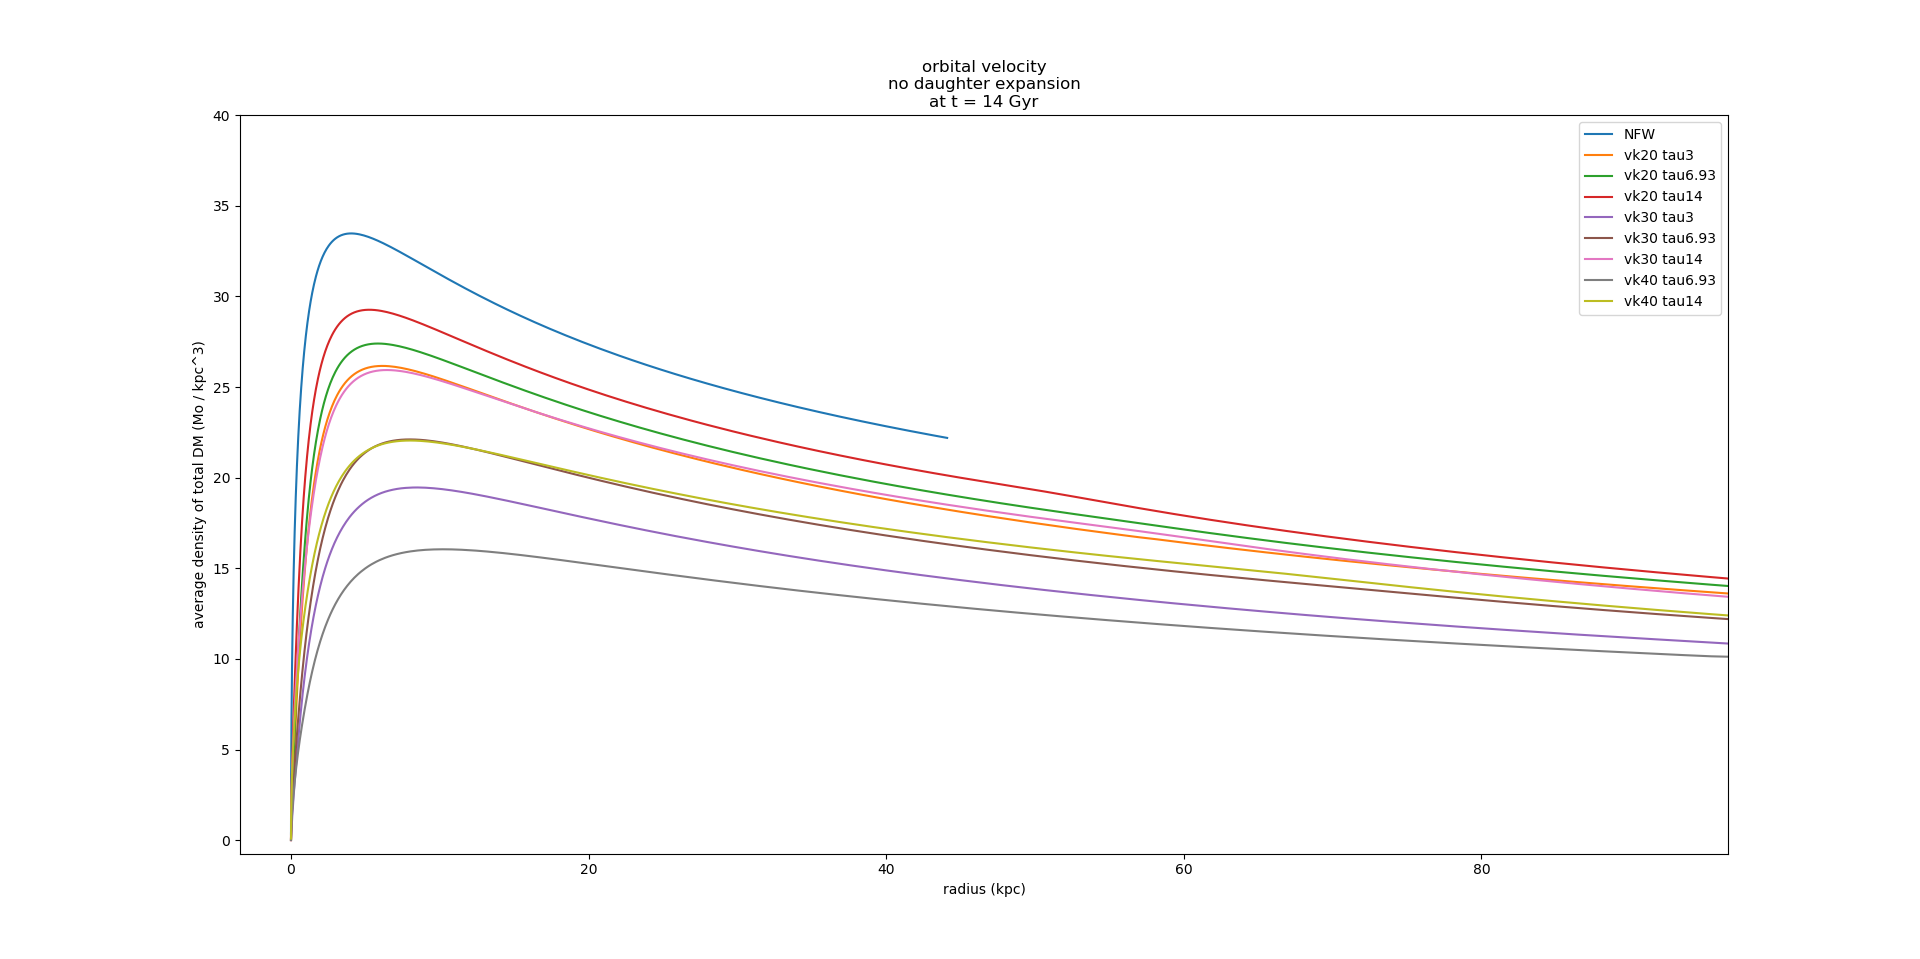
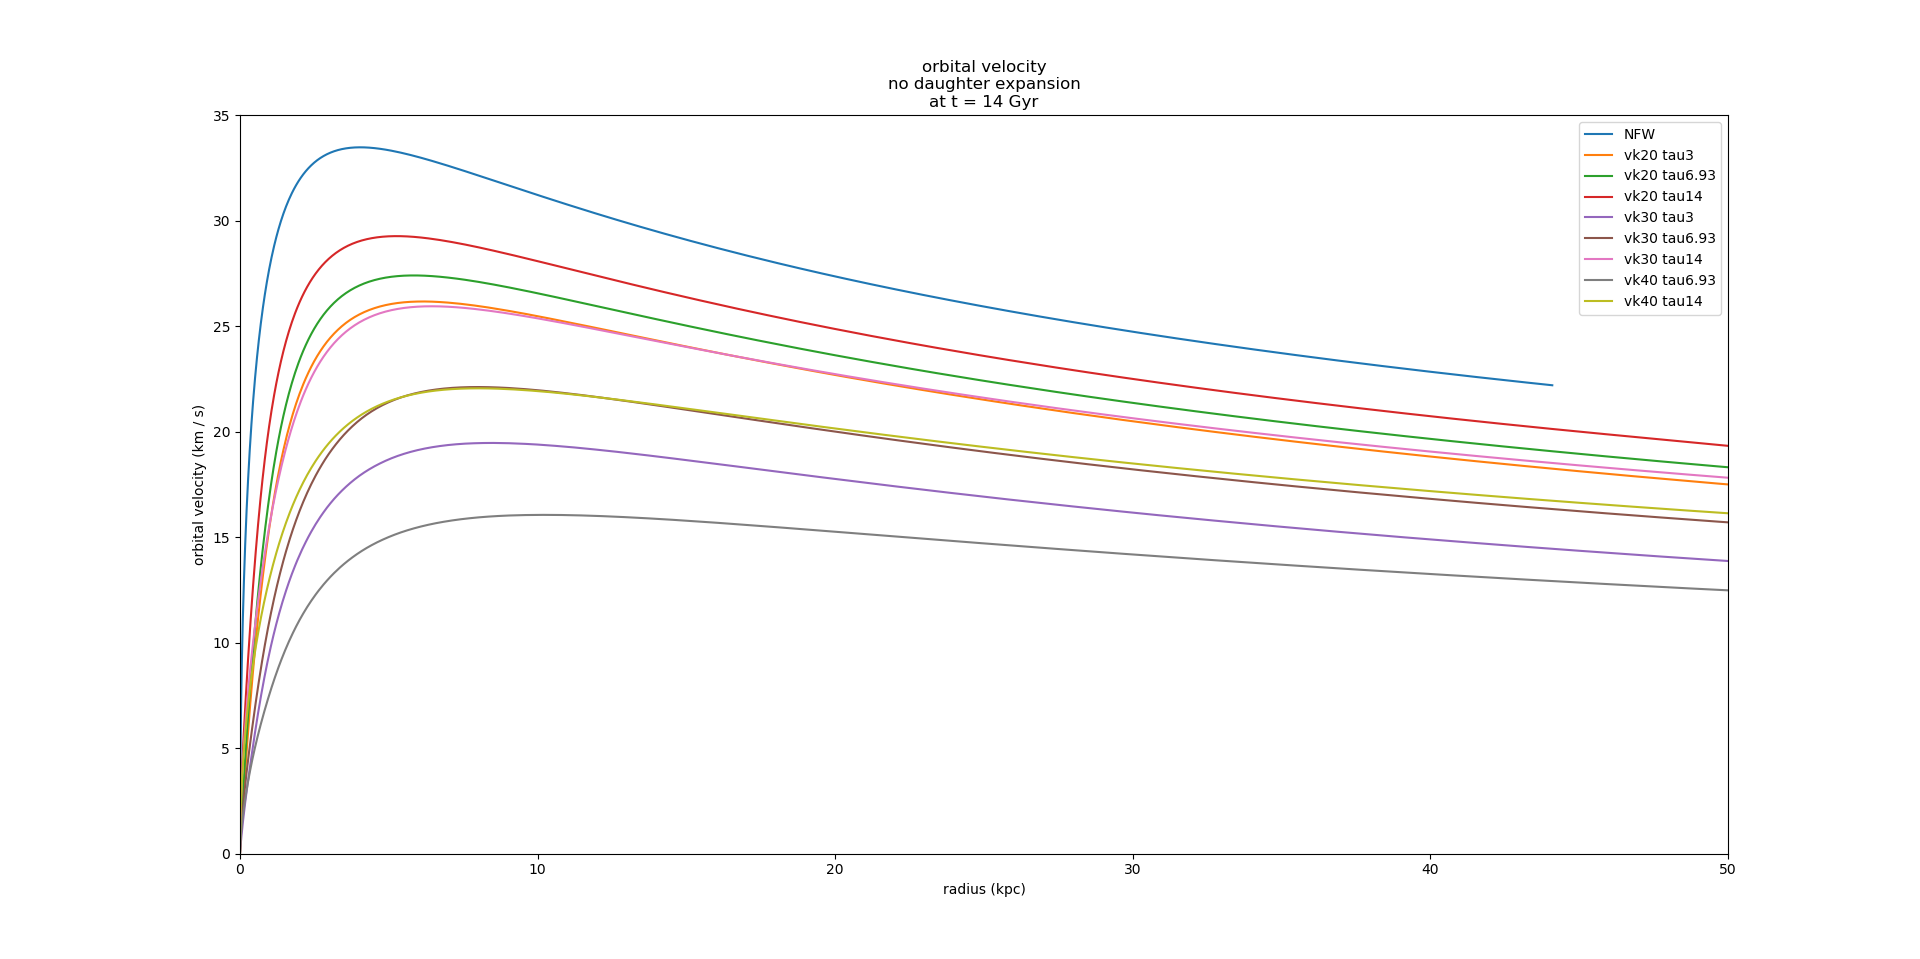
Edited gitignore

diff --git a/plotting.py b/plotting.py
@@ -742,7 +742,8 @@ import numpy as np
 # plt.plot(array[:, 1], ((G*array[:, 5]/array[:, 1])**(0.5))*kpc/1000, label="vk40 tau14")
 
 
-# plt.ylabel("average density of total DM (Mo / kpc^3)")
+# # plt.ylabel("average density of total DM (Mo / kpc^3)")
+# plt.ylabel("orbital velocity (km / s)")
 # plt.title("orbital velocity\nno daughter expansion\nat t = 14 Gyr")
 # plt.xlabel("radius (kpc)")
 # # plt.xlim(0.01, 10)
@@ -753,38 +754,39 @@ import numpy as np
 # plt.show()
 
 
-array = np.loadtxt("dmOnly_compare_MDadia_DadiaOff/30_6.93_576_40/M_t=0.txt")
+# array = np.loadtxt("dmOnly_compare_MDadia_DadiaOff/30_6.93_576_40/M_t=0.txt")
+# plt.plot(array[:, 1], ((G*array[:, 5]/array[:, 1])**(0.5))*kpc/1000, label="NFW")
+
+# array = np.loadtxt("dmOnly_compare_MDadia_DadiaOff/30_6.93_576_40/T_result.txt")
+# plt.plot(array[:, 1], ((G*array[:, 5]/array[:, 1])**(0.5))*kpc/1000, label="off")
+
+# array = np.loadtxt("dmOnly_compare_MDadia_DadiaOn/30_6.93_576_40/T_result.txt")
+# plt.plot(array[:, 1], ((G*array[:, 5]/array[:, 1])**(0.5))*kpc/1000, label="on")
+
+# # plt.ylabel("average density of total DM (Mo / kpc^3)")
+# plt.ylabel("orbital velocity (km / s)")
+# plt.title("daughter adiabatic expansion on/off\nresults at t = 14 Gyr")
+# plt.xlabel("radius (kpc)")
+# # plt.xlim(0.01, 10)
+# # plt.ylim(1e6, 1e10)
+# # plt.yscale("log")
+# # plt.xscale("log")
+# plt.legend()
+# plt.show()
+
+
+array = np.loadtxt("dmOnly_check_adiaCon/30_6.93_576_40/M_t=0.txt")
 plt.plot(array[:, 1], array[:, 6], label="NFW")
 
-array = np.loadtxt("dmOnly_compare_MDadia_DadiaOff/30_6.93_576_40/T_result.txt")
-plt.plot(array[:, 1], array[:, 6], label="off")
+for i in np.arange(6):
+    array = np.loadtxt("dmOnly_check_adiaCon/30_6.93_576_40/T_t=0.35.adiaCon="+str(i)+".txt")
+    plt.plot(array[:, 1], array[:, 6], label=i)
 
-array = np.loadtxt("dmOnly_compare_MDadia_DadiaOn/30_6.93_576_40/T_result.txt")
-plt.plot(array[:, 1], array[:, 6], label="on")
 
 plt.ylabel("average density of total DM (Mo / kpc^3)")
-plt.title("daughter adiabatic expansion on/off\nresults at t = 14 Gyr")
+plt.title("convergence test on adiabatic expansion\nresults at t = 14 Gyr")
 plt.xlabel("radius (kpc)")
-plt.xlim(0.01, 10)
-# plt.ylim(1e6, 1e10)
-plt.yscale("log")
-plt.xscale("log")
-plt.legend()
-plt.show()
-
-array = np.loadtxt("dmOnly_compare_MDadia_DadiaOff/30_6.93_576_40/M_t=0.txt")
-plt.plot(array[:, 2], array[:, 4], label="NFW")
-
-array = np.loadtxt("dmOnly_compare_MDadia_DadiaOff/30_6.93_576_40/T_result.txt")
-plt.plot(array[:, 2], array[:, 4], label="off")
-
-array = np.loadtxt("dmOnly_compare_MDadia_DadiaOn/30_6.93_576_40/T_result.txt")
-plt.plot(array[:, 2], array[:, 4], label="on")
-
-plt.ylabel("shell density of total DM (Mo / kpc^3)")
-plt.title("daughter adiabatic expansion on/off\nresults at t = 14 Gyr")
-plt.xlabel("radius (kpc)")
-plt.xlim(0.01, 10)
+# plt.xlim(0.01, 10)
 # plt.ylim(1e6, 1e10)
 plt.yscale("log")
 plt.xscale("log")
